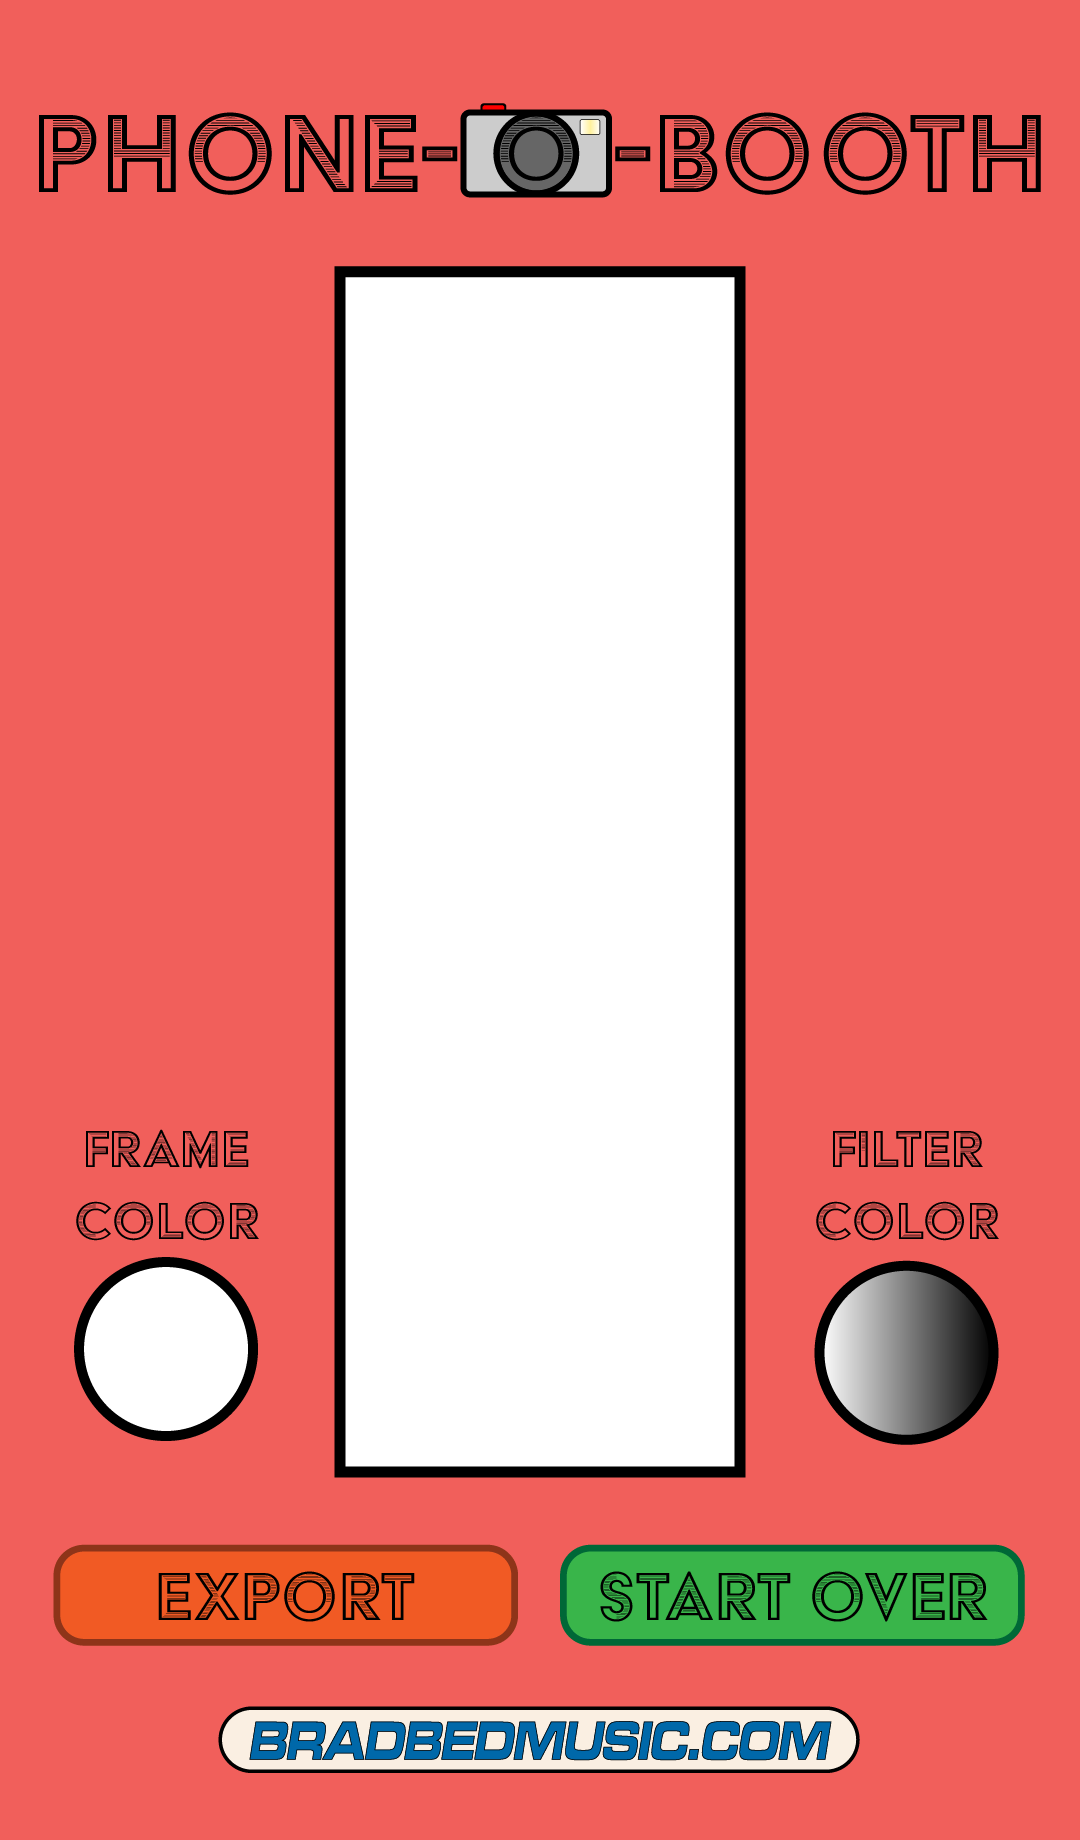
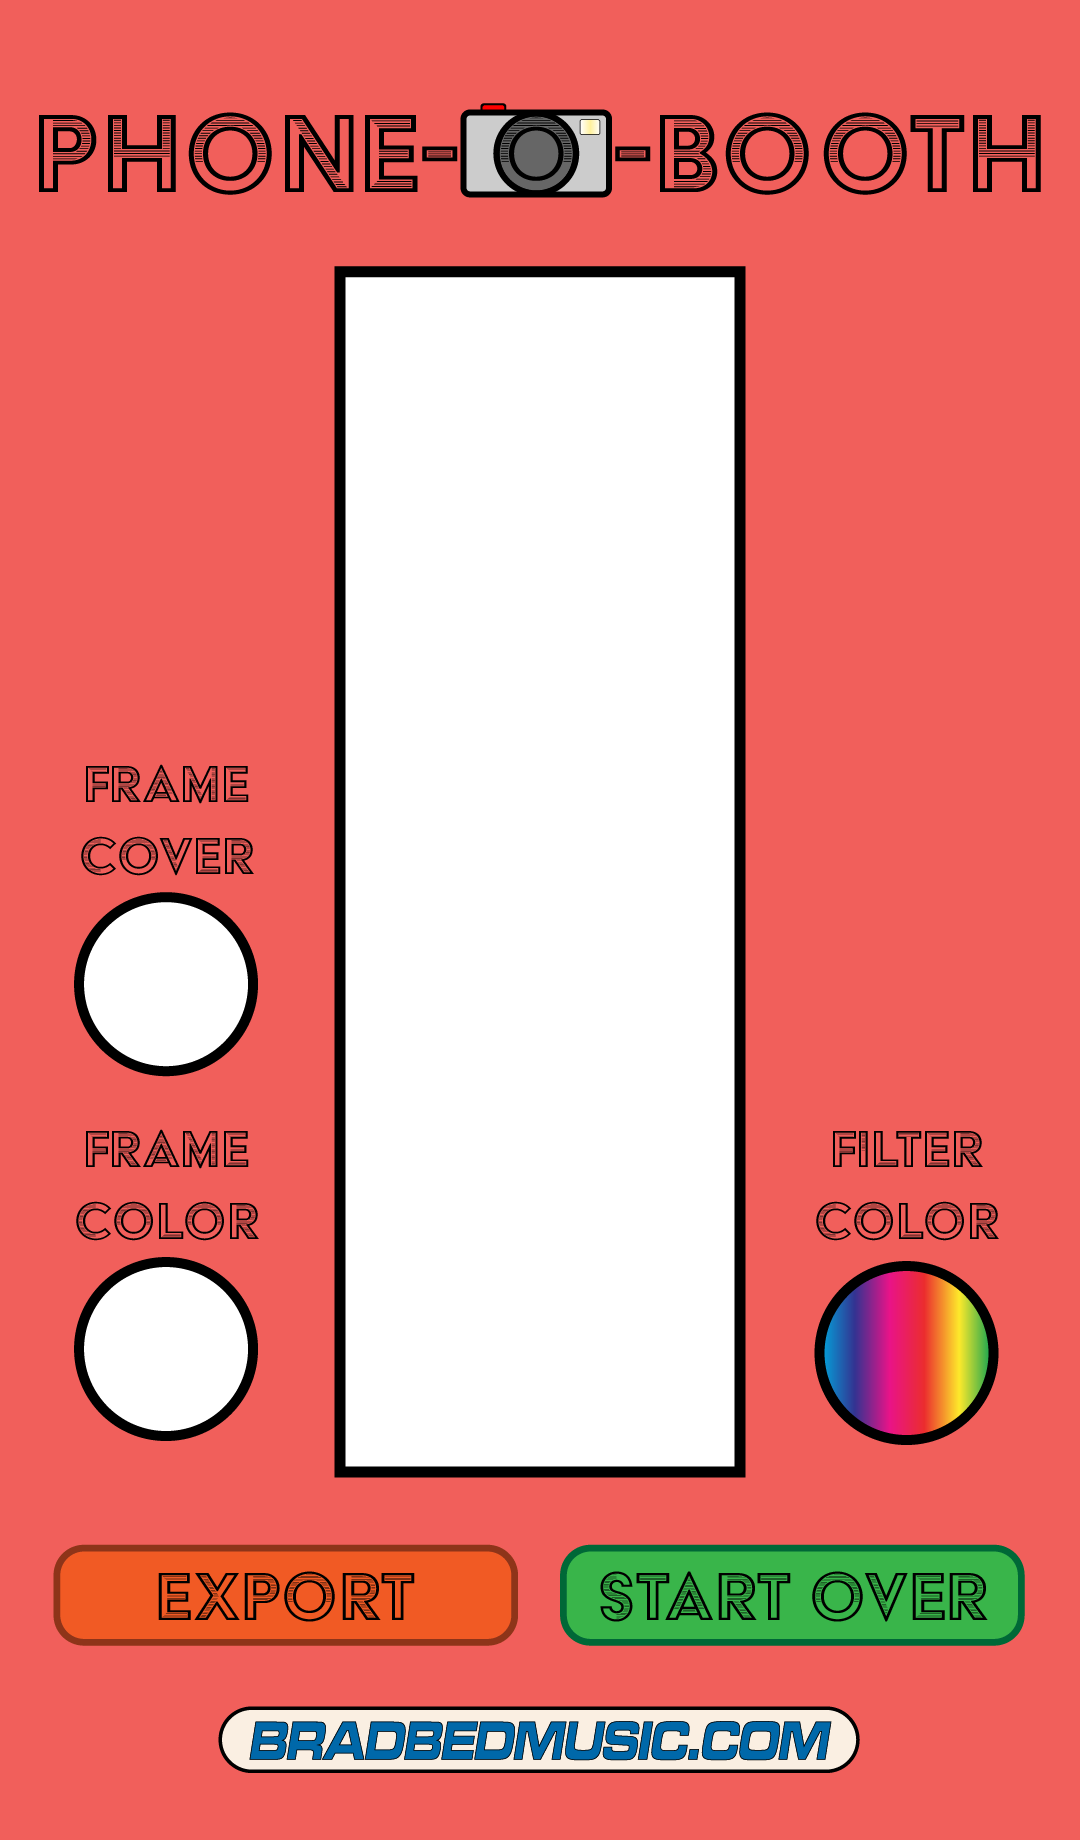
Frames Mobile Update

Changed region(s): [[0.0611, 0.4027, 0.2444, 0.5886], [0.7639, 0.6815, 0.9167, 0.8054]]

diff --git a/phoneobooth/phoneobooth.js b/phoneobooth/phoneobooth.js
@@ -33,12 +33,16 @@ let bwfilter = false;
 let currentcolor = 0;
 let colors;
 let colormax;
+let currentcover = 0;
+let covermax = 3;
 let framecolordark = false;
+
 
 function preload() {
   helpbg = loadImage('assets/help.png');
   mainbg = loadImage('assets/main.png');
   exportbg = loadImage('assets/export.png');
+  exportbgdesktop = loadImage('assets/exportdesk.png');
   clickbox = loadImage('assets/CLICKBOX.png');
   printTemp = loadImage('assets/printtemp.png');
   digiTemp = loadImage('assets/digitemp.png');
@@ -51,6 +55,15 @@ function preload() {
   exportMenuBg = loadImage('assets/exportmenu.png');
   bwdot = loadImage('assets/bwdot.png');
   coldot = loadImage('assets/coldot.png');
+  micedot = loadImage('assets/micedot.png');
+  micedigi = loadImage('assets/digitempmice.png');
+  miceprint = loadImage('assets/printtempmice.png');
+  mousedot = loadImage('assets/mousedot.png');
+  mousedigi =loadImage('assets/digitempmouse.png');
+  mouseprint =loadImage('assets/printtempmouse.png');
+  planedot = loadImage('assets/planedot.png');
+  planedigi =loadImage('assets/digitempplane.png');
+  planeprint =loadImage('assets/printtempplane.png');
 }
 
 function setup() {
@@ -72,16 +85,17 @@ function setup() {
   strokeWeight(4);
   heightScale = capture.height;
   white =color(255, 255, 255);
-  sky = color(186,225,255);
-  lavender = color(201,201,255);
-  sunbeam = color(255,255,186);
-  tangerine = color(255,209,173);
-  rose = color(255,189,189);
-  green = color(186,255,201);
+  sky = color(186, 225, 255);
+  lavender = color(201, 201, 255);
+  sunbeam = color(255, 255, 186);
+  tangerine = color(255, 209, 173);
+  rose = color(255, 189, 189);
+  green = color(186, 255, 201);
   black =color(0, 0, 0);
   colors = [white, sky, lavender, sunbeam, tangerine, rose, green, black];
   colormax = colors.length - 1;
-
+  coverImageD = digiTempM;
+  coverImageP = printTempM;
 }
 
 
@@ -125,11 +139,15 @@ function draw() {
       cnv = createCanvas(windowWidth, windowWidth*1.7);
     }
     background(241, 95, 91);
-
-    image(exportbg, 0, 0, ratioScale*1080, ratioScale*1840);
+    if (desktop) {
+      image(exportbgdesktop, 0, 0, ratioScale*1080, ratioScale*1840);
+    } else {
+      image(exportbg, 0, 0, ratioScale*1080, ratioScale*1840);
+    }
     image(digiSave, 340*ratioScale, 272*ratioScale, ratioScale*400, ratioScale*1200);
     drawFilterDot();
     drawColorDot();
+    if(!desktop){drawCoverDot();}
     if (exportmenu) {
       image(exportMenuBg, 125*ratioScale, 401*ratioScale, ratioScale*828, ratioScale*556);
     }
@@ -171,6 +189,9 @@ function touchEnded() {
     }
     if (buttonBounds(79, 1266, 174, 174)) {
       changeColor();
+    }
+    if (!desktop && buttonBounds(79, 897, 174, 174) && !framecolordark) {
+      changeCover();
     }
     if (exportmenu) {
       if (buttonBounds(235, 607, 610, 94)) {
@@ -360,7 +381,7 @@ function printingScreenM() {
   if (framecolordark) {
     image(printTempWM, 0, 0, 1200, 1800);
   } else {
-    image(printTempM, 0, 0, 1200, 1800);
+    image(coverImageP, 0, 0, 1200, 1800);
   }
   printSave = cnvBuild.get();
   printScreen = false;
@@ -382,7 +403,7 @@ function digifyScreenM() {
   if (framecolordark) {
     image(digiTempWM, 0, 0, 600, 1800);
   } else {
-    image(digiTempM, 0, 0, 600, 1800);
+    image(coverImageD, 0, 0, 600, 1800);
   }
   digiSave = cnvBuildDig.get();
   digiScreen = false;
@@ -410,11 +431,52 @@ function changeColor() {
   }
   if (currentcolor == colormax) {
     framecolordark = true;
+    currentcover = 0;
+        coverImageD = digiTempM;
+    coverImageP = printTempM;
   } else {
     framecolordark = false;
   }
   finalScreen = false;
   printScreen = true;
+}
+
+function changeCover() {
+  if (currentcover<covermax) {
+    currentcover++;
+  } else {
+    currentcover = 0;
+  }
+  if (currentcover == 0) {
+    coverImageD = digiTempM;
+    coverImageP = printTempM;
+  } else if (currentcover == 1) {
+    coverImageD = micedigi;
+    coverImageP = miceprint;
+  } else if (currentcover == 2) {
+    coverImageD = mousedigi
+      coverImageP = mouseprint;
+  } else if (currentcover == 3) {
+    coverImageD = planedigi;
+    coverImageP = planeprint;
+  }
+  finalScreen = false;
+  printScreen = true;
+}
+
+function drawCoverDot() {
+  if (currentcover == 0) {
+
+  } else if (currentcover == 1) {
+
+    image(micedot, 79*ratioScale, 897*ratioScale, ratioScale*175, ratioScale*175);
+  } else if (currentcover == 2) {
+
+    image(mousedot, 79*ratioScale, 897*ratioScale, ratioScale*175, ratioScale*175);
+  } else if (currentcover == 3) {
+
+    image(planedot, 79*ratioScale, 897*ratioScale, ratioScale*175, ratioScale*175);
+  }
 }
 
 function drawColorDot() {
